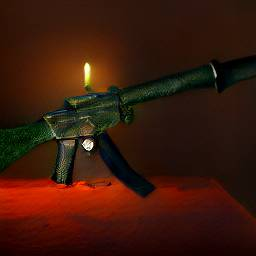
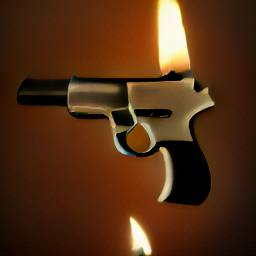
Add candle weapons

diff --git a/features/tech.js b/features/tech.js
@@ -11,29 +11,31 @@ document.getElementById("tech-research-unlock-price").innerHTML = formatWithComm
 const tech = {
     quantumLevel: 26,
     candleWeaponsLevel: 0,
-    hasEnemies: false,
     updatePrices: function () {
         document.querySelectorAll(".upgrade-quantum-price").forEach(e => e.innerText = formatWithCommas(this.nextPrice("quantum")))
-        document.querySelectorAll(".upgrade-candle-weapon-research-price").forEach(e => e.innerText = formatWithCommas(this.nextPrice("candleWeapons")))
+        document.querySelectorAll(".upgrade-candle-weapon-research-price").forEach(e =>
+            e.innerText = `${formatWithCommas(this.nextPrice("candleWeapons"))}$ and ${formatWithCommas(this.nextPrice("candleWeaponsCandles"))} unsold candles`
+        )
     },
     upgrade: function (type) {
         switch (type) {
             case "quantum":
-                if (game.purchase(constants.QUANTUM_UPGRADE_PRICE * this.quantumLevel + 1)) {
+                if (game.purchase(this.nextPrice("quantum"))) {
                     this.quantumLevel += 1
                     document.getElementById("quantum-research-level").innerText = this.quantumLevel
                     this.updatePrices()
+                    this.eventCheck(type)
                 }
                 break
             case "candleWeapons":
-                if (game.purchase(constants.CANDLE_WEAPON_UPGRADE_PRICE * this.candleWeaponsLevel + 1)) {
+                if (game.purchase(this.nextPrice("candleWeapons"), constants.CANDLE_WEAPON_UPGRADE_CANDLES * this.candleWeaponsLevel + 1)) {
                     this.candleWeaponsLevel += 1
                     document.getElementById("candleWeapons-research-level").innerText = this.candleWeaponsLevel
                     this.updatePrices()
+                    this.eventCheck(type)
                 }
                 break
         }
-        this.eventCheck()
     },
     nextPrice: function (type) {
         switch (type) {
@@ -41,67 +43,78 @@ const tech = {
                 return constants.QUANTUM_UPGRADE_PRICE * (this.quantumLevel + 1)
             case "candleWeapons":
                 return constants.CANDLE_WEAPON_UPGRADE_PRICE * (this.candleWeaponsLevel + 1)
+            case "candleWeaponsCandles":
+                return constants.CANDLE_WEAPON_UPGRADE_CANDLES * (this.candleWeaponsLevel + 1)
         }
     },
-    eventCheck: async function () {
-        if (this.quantumLevel == 1) {
-            await writeToChat(`
-            You found something strange...
-            There seems to be some way of opening a rift to another dimension
-            Your scientists gaze in awe, as a large rip in the spacetime starts to open................`)
-            await delay(1000)
-            await writeToChat(`The other side seems to be some kind of warehouse, filled with with a strange substance.
-            A brave scientist uses a long grabbing tool to carefully lift a piece out of the rift
-            He feels a large amount of force pulling against him, but he manages to pull the object through.
-            It turns out to be high quality wax!`)
-            await writeToChat("Global wax supply increased!")
-        }
-        game.resources.globalWax += (10 ** 10) * this.quantumLevel
+    eventCheck: async function (type) {
+        switch (type) {
+            case "quantum":
+                if (this.quantumLevel == 1) {
+                    await writeToChat(`
+                    You found something strange...
+                    There seems to be some way of opening a rift to another dimension
+                    Your scientists gaze in awe, as a large rip in the spacetime starts to open................`)
+                    await delay(1000)
+                    await writeToChat(`The other side seems to be some kind of warehouse, filled with with a strange substance.
+                    A brave scientist uses a long grabbing tool to carefully lift a piece out of the rift
+                    He feels a large amount of force pulling against him, but he manages to pull the object through.
+                    It turns out to be high quality wax!`)
+                    await writeToChat("Global wax supply increased!")
+                }
+                game.resources.globalWax += (10 ** 10) * this.quantumLevel
 
-        if (this.quantumLevel == 10) {
-            await writeToChat(`
-            As your scientists keep continuing to extract the substance, they notice that the quality of the wax is deteriorating.
-            `)
-        }
-        if (this.quantumLevel == 15) {
-            await writeToChat(`
-            Strange sounds start to emerge from the depths of the rift.
-            A coldness starts to fill the air and strange rumbling noises can be heard
-            `)
-        }
-        if (this.quantumLevel == 17) {
-            await writeToChat(`
-            Strange sounds start to emerge from the depths of the rift.
-            A coldness starts to fill the air and strange rumbling noises can be heard
-            `)
-        }
-        if (this.quantumLevel == 30) {
-            writeHtmlToChat(`<img src="img/interdimensional1.png" style="width: 100%;">`)
-            await delay(1000)
-            writeHtmlToChat(`<p class="creepy">Agasul: Why have you disturbed my peace, mortals?</p>`)
-            writeToChat(`Oh fuck, if only there was some way to fight this monster?!
-            Wait didn't we make ${spellf(game.candles)} candles?
-            Maybe we can use them to fight them off?`)
-            document.getElementById("buy-candle-weapons-research").style.display = "block"
-            document.getElementById("interdimensional-beings").style.display = "block"
-            enemies.activate()
-        }
+                if (this.quantumLevel == 10) {
+                    await writeToChat(`
+                    As your scientists keep continuing to extract the substance, they notice that the quality of the wax is deteriorating.
+                    `)
+                }
+                if (this.quantumLevel == 15) {
+                    await writeToChat(`
+                    Strange sounds start to emerge from the depths of the rift.
+                    A coldness starts to fill the air and strange rumbling noises can be heard
+                    `)
+                }
+                if (this.quantumLevel == 17) {
+                    await writeToChat(`
+                    Strange sounds start to emerge from the depths of the rift.
+                    A coldness starts to fill the air and strange rumbling noises can be heard
+                    `)
+                }
+                if (this.quantumLevel == 30) {
+                    writeHtmlToChat(`<img src="img/interdimensional1.png" style="width: 100%;">`)
+                    await delay(1000)
+                    writeHtmlToChat(`<p class="creepy">Agasul: Why have you disturbed my peace, mortals?</p>`)
+                    writeToChat(`Oh fuck, if only there was some way to fight this monster?!
+                    Wait didn't we make ${spellf(game.candles)} candles?
+                    Maybe we can use them to fight them off?`)
+                    document.getElementById("buy-candle-weapons-research").style.display = "block"
+                    document.getElementById("interdimensional-beings").style.display = "block"
+                    enemies.activate()
+                }
+                enemies.update(this.quantumLevel * 10)
 
-
-        if (this.candleWeaponsLevel == 1) {
-            await writeToChat(`
-            You successfully created a candle weapon! I don't think it's enough yet though.
-            `)
-            document.getElementById("candle-weapons").innerHTML += `<img class="weapon-item" src="img/candle-weapon/level${this.candleWeaponsLevel}.png">`
+                break
+            case "candleWeapons":
+                document.getElementById("candle-weapons").innerHTML += `<img class="weapon-item" src="img/candle-weapon/level${this.candleWeaponsLevel}.png" onerror="this.remove()">`
+                enemies.killPerInterval(this.candleWeaponsLevel * 10)
+                if (this.candleWeaponsLevel == 1) {
+                    await writeToChat(`
+                    You successfully created a candle weapon! I don't think it's enough yet though.
+                    `)
+                }
+         
+                if (this.candleWeaponsLevel == 5) {
+                    await writeToChat(`
+                    Yes yes much better!
+                    `)
+                }
+                if (this.candleWeaponsLevel == 30) {
+                    await writeToChat(`This still does not seem enough, but we're still just using guns. Maybe there is a way to autonomously control the weapons?
+                    Or better yet, let the weapons themselves fight.`)
+                }
+                break
         }
-        if (this.candleWeaponsLevel == 5) {
-            await writeToChat(`
-            Yes yes much better!
-            `)
-            document.getElementById("candle-weapons").innerHTML += `<img class="weapon-item" src="img/candle-weapon/level${this.candleWeaponsLevel}.png">`
-        }
-
-        enemies.killPerInterval(this.candleWeaponsLevel * 10)
     }
 }
 

diff --git a/features/enemies.js b/features/enemies.js
@@ -1,21 +1,41 @@
 const enemies = {
+    isActive : false,
     spawnAmount: 1000,
     amount: 0,
+    spawnInterval: null,
+    killInterval: null,
     killPerInterval(amount) {
-        window.setInterval(function () {
+        if (this.killInterval) {
+            clearInterval(this.killInterval)
+        }
+        this.killInterval = window.setInterval(function () {
             enemies.amount -= amount
+            console.log("Killed " + amount + " enemies");
             if (enemies.amount < 0) {
                 enemies.amount = 0
             }
+            document.getElementById("killed-enemies-second").innerText = spellf(amount)
         }, 1000)
     },
     updateUi() {
         document.getElementById("interdimensional-beings-count").innerText = spellf(enemies.amount)
     },
     activate() {
-        window.setInterval(function () {
+        this.isActive = true
+        enemies.spawnInterval = window.setInterval(function () {
             enemies.amount += enemies.spawnAmount
+            console.log("Spawned " + enemies.spawnAmount + " enemies");
         }, 1000)
+    },
+    update(spawnAmount) {
+        if (this.isActive && enemies.spawnInterval && this.spawnAmount !== spawnAmount) {
+            this.spawnAmount = spawnAmount
+            window.clearInterval(enemies.spawnInterval)
+            enemies.spawnInterval = window.setInterval(function () {
+                enemies.amount += enemies.spawnAmount
+                console.log("Spawned " + enemies.spawnAmount + " enemies");
+            }, 1000)
+        }
     }
 }
 

diff --git a/index.html b/index.html
@@ -26,6 +26,7 @@
                 <h2 id="poshness">Poshness: <span id="poshness-count">0</span>🎩</h2>
                 <span id="interdimensional-beings">
                     <img class="monster-icon" src="img/monster/icon.png"><h2>Interdimensional beings invading our universe: <span id="interdimensional-beings-count">0</span></h2>
+                    <h2>Killing <span id="killed-enemies-second">0</span> per second</h2>
                 </span>
             </div>
             <div class="machines">
@@ -96,7 +97,7 @@
                         <p>Quantum Research Level <span id="quantum-research-level">0</span></p>
                         <p>Candle Weapons Research Level <span id="candleWeapons-research-level">0</span></p>
                         <button id="buy-quantum-research">Research Quantum Wax Tunneling (<span class="upgrade-quantum-price"></span>$)</button>
-                        <button id="buy-candle-weapons-research">Research Candle Weaponry (<span class="upgrade-candle-weapon-research-price"></span>$)</button>
+                        <button id="buy-candle-weapons-research">Research Candle Weaponry <span class="upgrade-candle-weapon-research-price"></span></button>
                         <hr>
                         <h3>Inventory</h3>
                         <div id="candle-weapons"></div>

diff --git a/main.js b/main.js
@@ -34,6 +34,7 @@ const constants = {
     TECH_RESEARCH_COST: 10 * 10 ** 6,
     QUANTUM_UPGRADE_PRICE: 10 ** 6,
     CANDLE_WEAPON_UPGRADE_PRICE: 11 ** 6,
+    CANDLE_WEAPON_UPGRADE_CANDLES: 1000,
 }
 
 const game = {
@@ -122,20 +123,14 @@ const game = {
             game.resources.unsoldCandles -= amount
         }
     },
-    purchase: function (amount) {
-        if (amount <= game.resources.money) {
+    purchase: function (amount, unsoldCandleAmount = 0) {
+        if (amount <= game.resources.money && unsoldCandleAmount <= game.resources.unsoldCandles) {
             game.resources.money -= amount
+            game.resources.unsoldCandles -= unsoldCandleAmount
             return true
         }
         return false
     },
-    purchaseWithCandle: function (amount) {
-        if (amount <= game.resources.unsoldCandles) {
-            game.resources.unsoldCandles -= amount
-            return true
-        }
-        return false
-    }
 }
 
 

diff --git a/style.css b/style.css
@@ -26,6 +26,9 @@ div#story-lines {
     padding: 1rem;
     overflow: auto;
     word-wrap: break-word;
+    position: -webkit-sticky; /* Safari */
+    position: sticky;
+    top: 1rem;
 }
 
 
